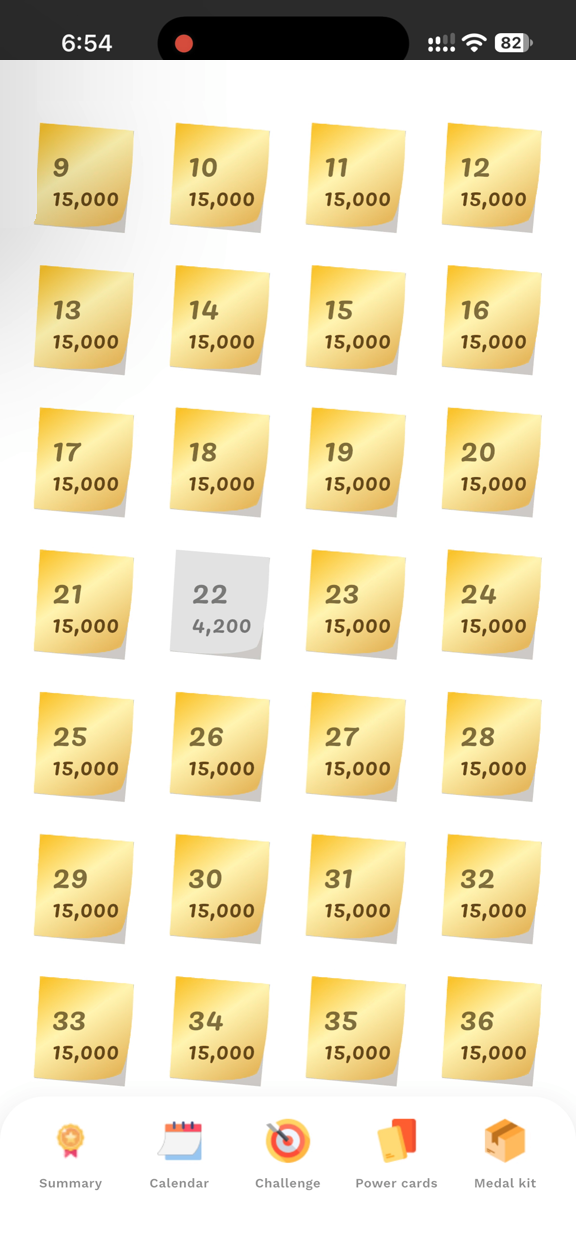
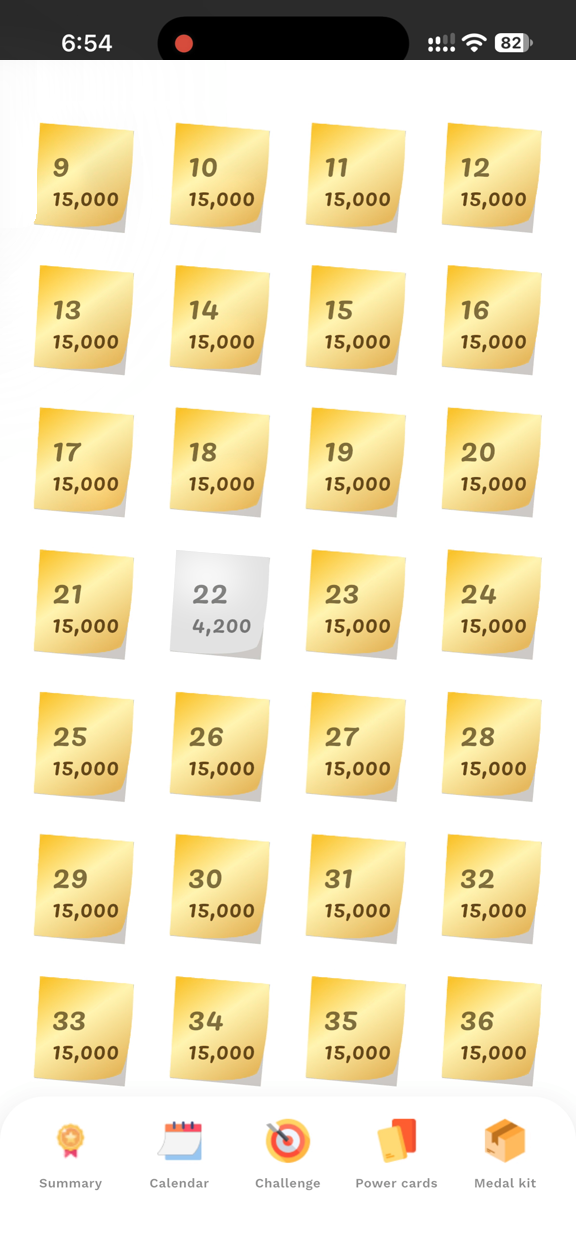
HV-RestCard: remove recorder tab's drop shadow on calendar (02/02b); design Don't
Claude-Session: https://claude.ai/code/session_01Rfr4fKPBLrZ9k637s35Lmf

Changed region(s): [[0.0, 0.0312, 0.0938, 0.2188]]

diff --git a/scripts/prep-rest-card-screens.py b/scripts/prep-rest-card-screens.py
@@ -33,10 +33,24 @@ def clean_scroll_top(im, y0=60, y1=100, src=110):
     sliver and the next cards), so the screen starts on a clean white page under our 9:41 bar."""
     a=np.array(im.convert('RGB')); a[y0:y1+1]=a[src]
     return Image.fromarray(a)
+def de_shadow(im, x1=240, y0=40, y1=600, sigma=18):
+    """the recorder's floating tab casts a soft drop shadow (~120 px right, fading by y≈400) that stays after the
+    tab is removed: a grey shade down the left edge that also dims card 9. Measure it on the plain page (neutral,
+    bright pixels) against each row's own page white, smooth it, and divide it back out (cards under it included)."""
+    a=np.array(im.convert('RGB')).astype(float); L=a.mean(2)
+    ref=np.percentile(L[:, 300:], 98, axis=1)[:, None]                    # the row's page white, far from the tab
+    neutral=(a.max(2)-a.min(2) < 12) & (L > 200)
+    region=np.zeros(L.shape,bool); region[y0:y1, :x1]=True
+    m=(neutral & region).astype(float); k=np.where(m>0, np.clip(L/ref,0.5,1.0), 0)
+    num=cv2.GaussianBlur(k*m,(0,0),sigma); den=cv2.GaussianBlur(m,(0,0),sigma)
+    ks=np.where(den>1e-3, num/np.maximum(den,1e-3), 1.0)
+    w=cv2.GaussianBlur(region.astype(float),(0,0),sigma)                   # fade the correction out at the edges
+    ks=1-(1-np.clip(ks,0.5,1.0))*w
+    return Image.fromarray(np.clip(a/ks[...,None],0,255).astype(np.uint8))
 frames={'01':'f_001','02':'f_005','03':'f_006','04':'f_007','05':'f_012'}
 for nn,f in frames.items():
     im=Image.open(f'{S}/out/frames/{f}.png')
-    if nn=='02': im=clean_scroll_top(no_handle_plain(im, 240, 240))   # page background is the same all the way down
+    if nn=='02': im=de_shadow(clean_scroll_top(no_handle_plain(im, 240, 240)))   # page background is plain white
     elif nn=='03':                                                    # soft beige gradient; the 'P' starts at x 37
         im=no_handle_plain(im, 80, 232)
         # the back arrow's tip sat under the tab: finish its line and both 45° strokes to the tip (x 32.5, y 116.5)

diff --git a/design.md b/design.md
@@ -292,7 +292,7 @@ Each line here is a mistake from an earlier draft.
 - ❌ Big empty areas of green. If a slide feels empty, it's the wrong layout.
 - ❌ Video colours inside the phone UI, or fake third-party logos in mockups.
 - ❌ Videos over 45 s.
-- Don't leave recorder overlays or smears on a screenshot. Remove a floating tab or button by inpainting its exact shape, or by filling it from clean background rows; never fade one row into another across it, which drags the status bar down the edge. A frame grabbed mid-scroll must start on a clean page: no sliver of the row above under the 9:41 bar. Zoom into the top and left edge of every screen before rendering.
+- Don't leave recorder overlays or smears on a screenshot. Remove a floating tab or button by inpainting its exact shape, or by filling it from clean background rows; never fade one row into another across it, which drags the status bar down the edge. A frame grabbed mid-scroll must start on a clean page: no sliver of the row above under the 9:41 bar. Zoom into the top and left edge of every screen before rendering. The tab also casts a soft drop shadow (~120 px wide) that stays after the tab is removed: divide it out too (`de_shadow` in `scripts/prep-rest-card-screens.py`).
 
 ## 10. Open items
 - [ ] Separate high-res Torty PNGs, about 1500 px tall. The sheet cuts are upscaled 4× and look a little soft (`torty-requests.md`).
@@ -380,6 +380,7 @@ Decide before writing anything. One input can produce more than one video: split
 ## Changelog
 | Version | Date | Change | Why |
 |---|---|---|---|
+| 1.5.1 | 2026-11-18 | Don't: remove the recorder tab's drop shadow as well as the tab | Swati's review of Video 1, 0:09 |
 | 1.5 | 2026-11-17 | Voice: ElevenLabs generated per slide from the script, with word timings driving `atWord` (§8, `src/data/voices.json`) | Team uses ElevenLabs for all voiceover |
 | 1.4.2 | 2026-11-14 | Don't: recorder overlays and mid-scroll slivers on screenshots | Reviewer spotted a grey smear and a cut strip on the Rest Card calendar |
 | 1.4.1 | 2026-11-14 | Hindi versions: Hinglish rules, on-screen Hindi, E14 `days` (§11) | First Hindi explainer (Rest Card) |

diff --git a/revisions.md b/revisions.md
@@ -14,6 +14,18 @@ Entry format:
 
 ---
 
+## 2026-11-18 · HV-RestCard · Swati's "few fixes here" (0:09)
+- **Asked:** the team's review of Video 1, 15 comments from Swati and 14 from Mrinal (listed in chat). First, the annotated frame at 0:09: arrows at the top strip and the left edge of the calendar.
+- **Found:**
+  - The review was of an export from before the 2026-11-14 screen clean-up. That clean-up already fixed the top strip and the dark smear.
+  - A grey shade down the left edge was still there: the recorder tab's soft drop shadow, which dims the page and card 9 (225 → 255 by x ≈ 120, fading by y ≈ 400).
+- **Changed:**
+  - `scripts/prep-rest-card-screens.py`: new `de_shadow` measures the shadow on plain page pixels against each row's page white, smooths it and divides it out. It is applied to 02 (and so 02b).
+  - `design.md` 1.5.1: a Don't line.
+- **Output:**
+  - Still checked at 0:09: the page is clean white to the edge.
+  - Full re-render waits for the rest of the review changes.
+
 ## 2026-11-18 · System · Project context file
 - **Asked:** a file that sums up everything, to upload as context when setting up a project with one thread per video.
 - **Changed:** new `PROJECT-CONTEXT.md` (what the project is, repo + skill, video types, process, standing rules, voice rules, status and open questions per video, suggested threads).
